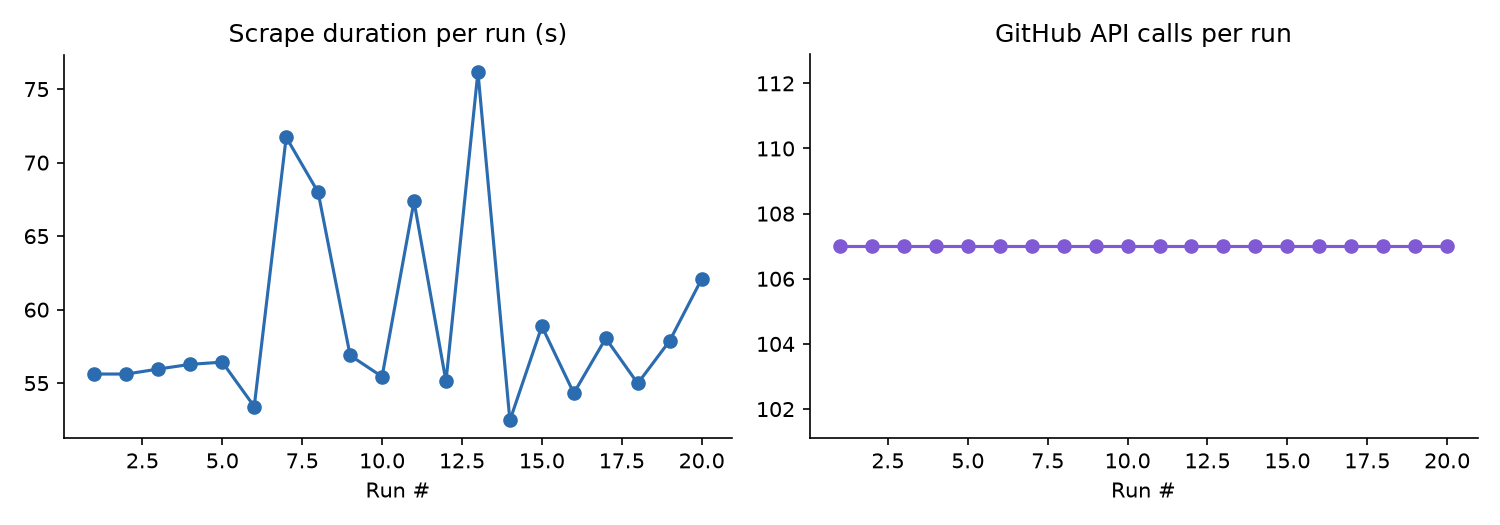
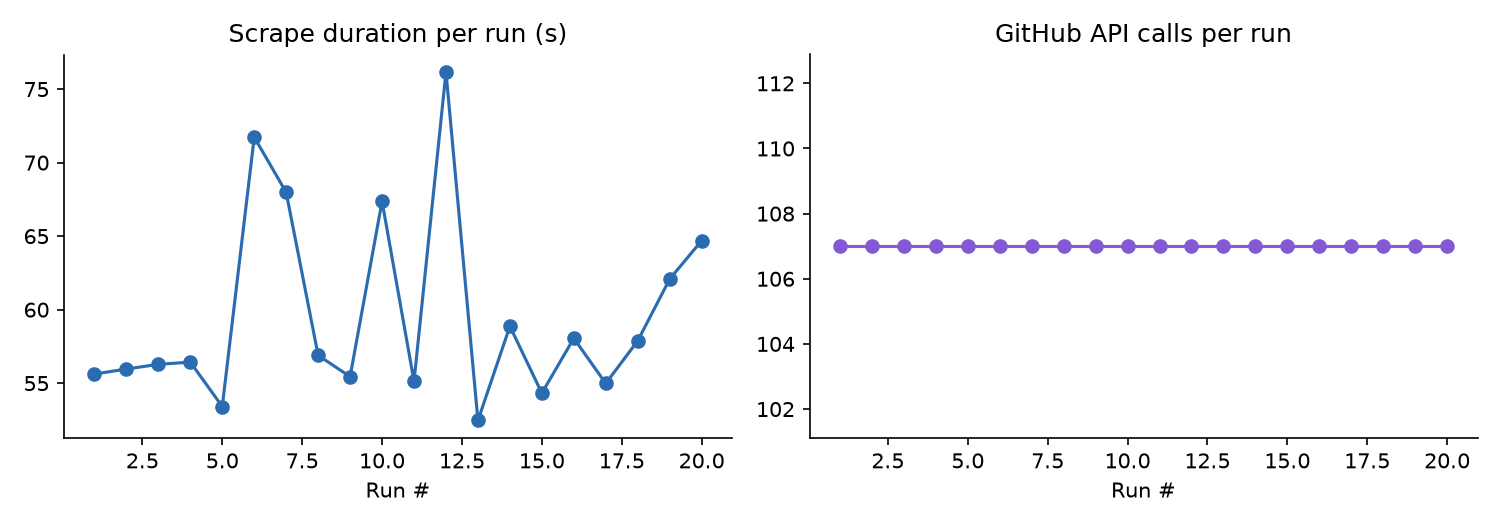
Weekly issue tracker refresh

Changed region(s): [[0.1533, 0.1219, 0.4907, 0.8229], [0.0613, 0.6705, 0.184, 0.7924], [0.46, 0.4571, 0.4907, 0.4876]]

diff --git a/README.md b/README.md
@@ -81,7 +81,7 @@ See [CONTRIBUTING.md](CONTRIBUTING.md) for the full contributor workflow — inc
 
 <!-- TRACKER:START -->
 
-_Last updated: 2026-07-24 02:15 UTC_
+_Last updated: 2026-07-24 03:28 UTC_
 
 _Tracking **18** upstream repos, **390** relevant open issues._
 
@@ -204,11 +204,11 @@ _Tracking **18** upstream repos, **390** relevant open issues._
 | ★★☆☆☆ | [#15373](https://github.com/langfuse/langfuse/issues/15373) bug: Javascript file not loading | 🐞❔ unconfirmed bug | 0 | 2026-07-23 |
 | ★★☆☆☆ | [#15372](https://github.com/langfuse/langfuse/issues/15372) bug(sdk-js): mask is silently skipped for third-party OTel instrumentation spans - PII can reach the API unmasked | 🐞❔ unconfirmed bug | 0 | 2026-07-23 |
 | ★★☆☆☆ | [#15152](https://github.com/langfuse/langfuse/issues/15152) The evaluator cannot set up LLM | bug, 🐞❔ unconfirmed bug, feat-scores, self-hosting, feat-llm-connections, langfuse/langfuse | 2 | 2026-07-23 |
+| ★☆☆☆☆ | [#12614](https://github.com/langfuse/langfuse/issues/12614) Allow using `metadata` fields (e.g. `organizationId`) as Breakdown Dimension in Dashboard Widgets | feature | 11 | 2026-07-24 |
 | ★☆☆☆☆ | [#15339](https://github.com/langfuse/langfuse/issues/15339) perf: span_processor.on_end evaluates span_formatter(span) eagerly via f-string regardless of log level | — | 1 | 2026-07-23 |
 | ★☆☆☆☆ | [#15343](https://github.com/langfuse/langfuse/issues/15343) bug: observation panel drops the reasoning block when completion is an empty string | — | 2 | 2026-07-23 |
 | ★☆☆☆☆ | [#15342](https://github.com/langfuse/langfuse/issues/15342) bug: Langfuse.get_dataset() causes digital strings beign casted to int | 🐞❔ unconfirmed bug | 1 | 2026-07-23 |
 | ★☆☆☆☆ | [#15344](https://github.com/langfuse/langfuse/issues/15344) bug: unclustered multi-ALTER migrations fail with CANNOT_ASSIGN_ALTER (517) on ClickHouse Cloud, leaving schema_migrations dirty | — | 1 | 2026-07-23 |
-| ★☆☆☆☆ | [#12337](https://github.com/langfuse/langfuse/issues/12337) Support OTEL Span Links | sdk-python, sdk-js, feat-otel, stale | 3 | 2026-07-23 |
 
 ### [nightscout/cgm-remote-monitor](https://github.com/nightscout/cgm-remote-monitor)
 
@@ -294,7 +294,7 @@ _Tracking **18** upstream repos, **390** relevant open issues._
 
 <!-- METRICS:START -->
 
-_Last run: 2026-07-24 02:14 UTC, took **62.1s**, **107** GitHub API calls, **4894/5000** rate limit remaining._
+_Last run: 2026-07-24 03:27 UTC, took **64.7s**, **107** GitHub API calls, **4894/5000** rate limit remaining._
 
 ![Scrape metrics trend](assets/metrics_trend.png)
 
